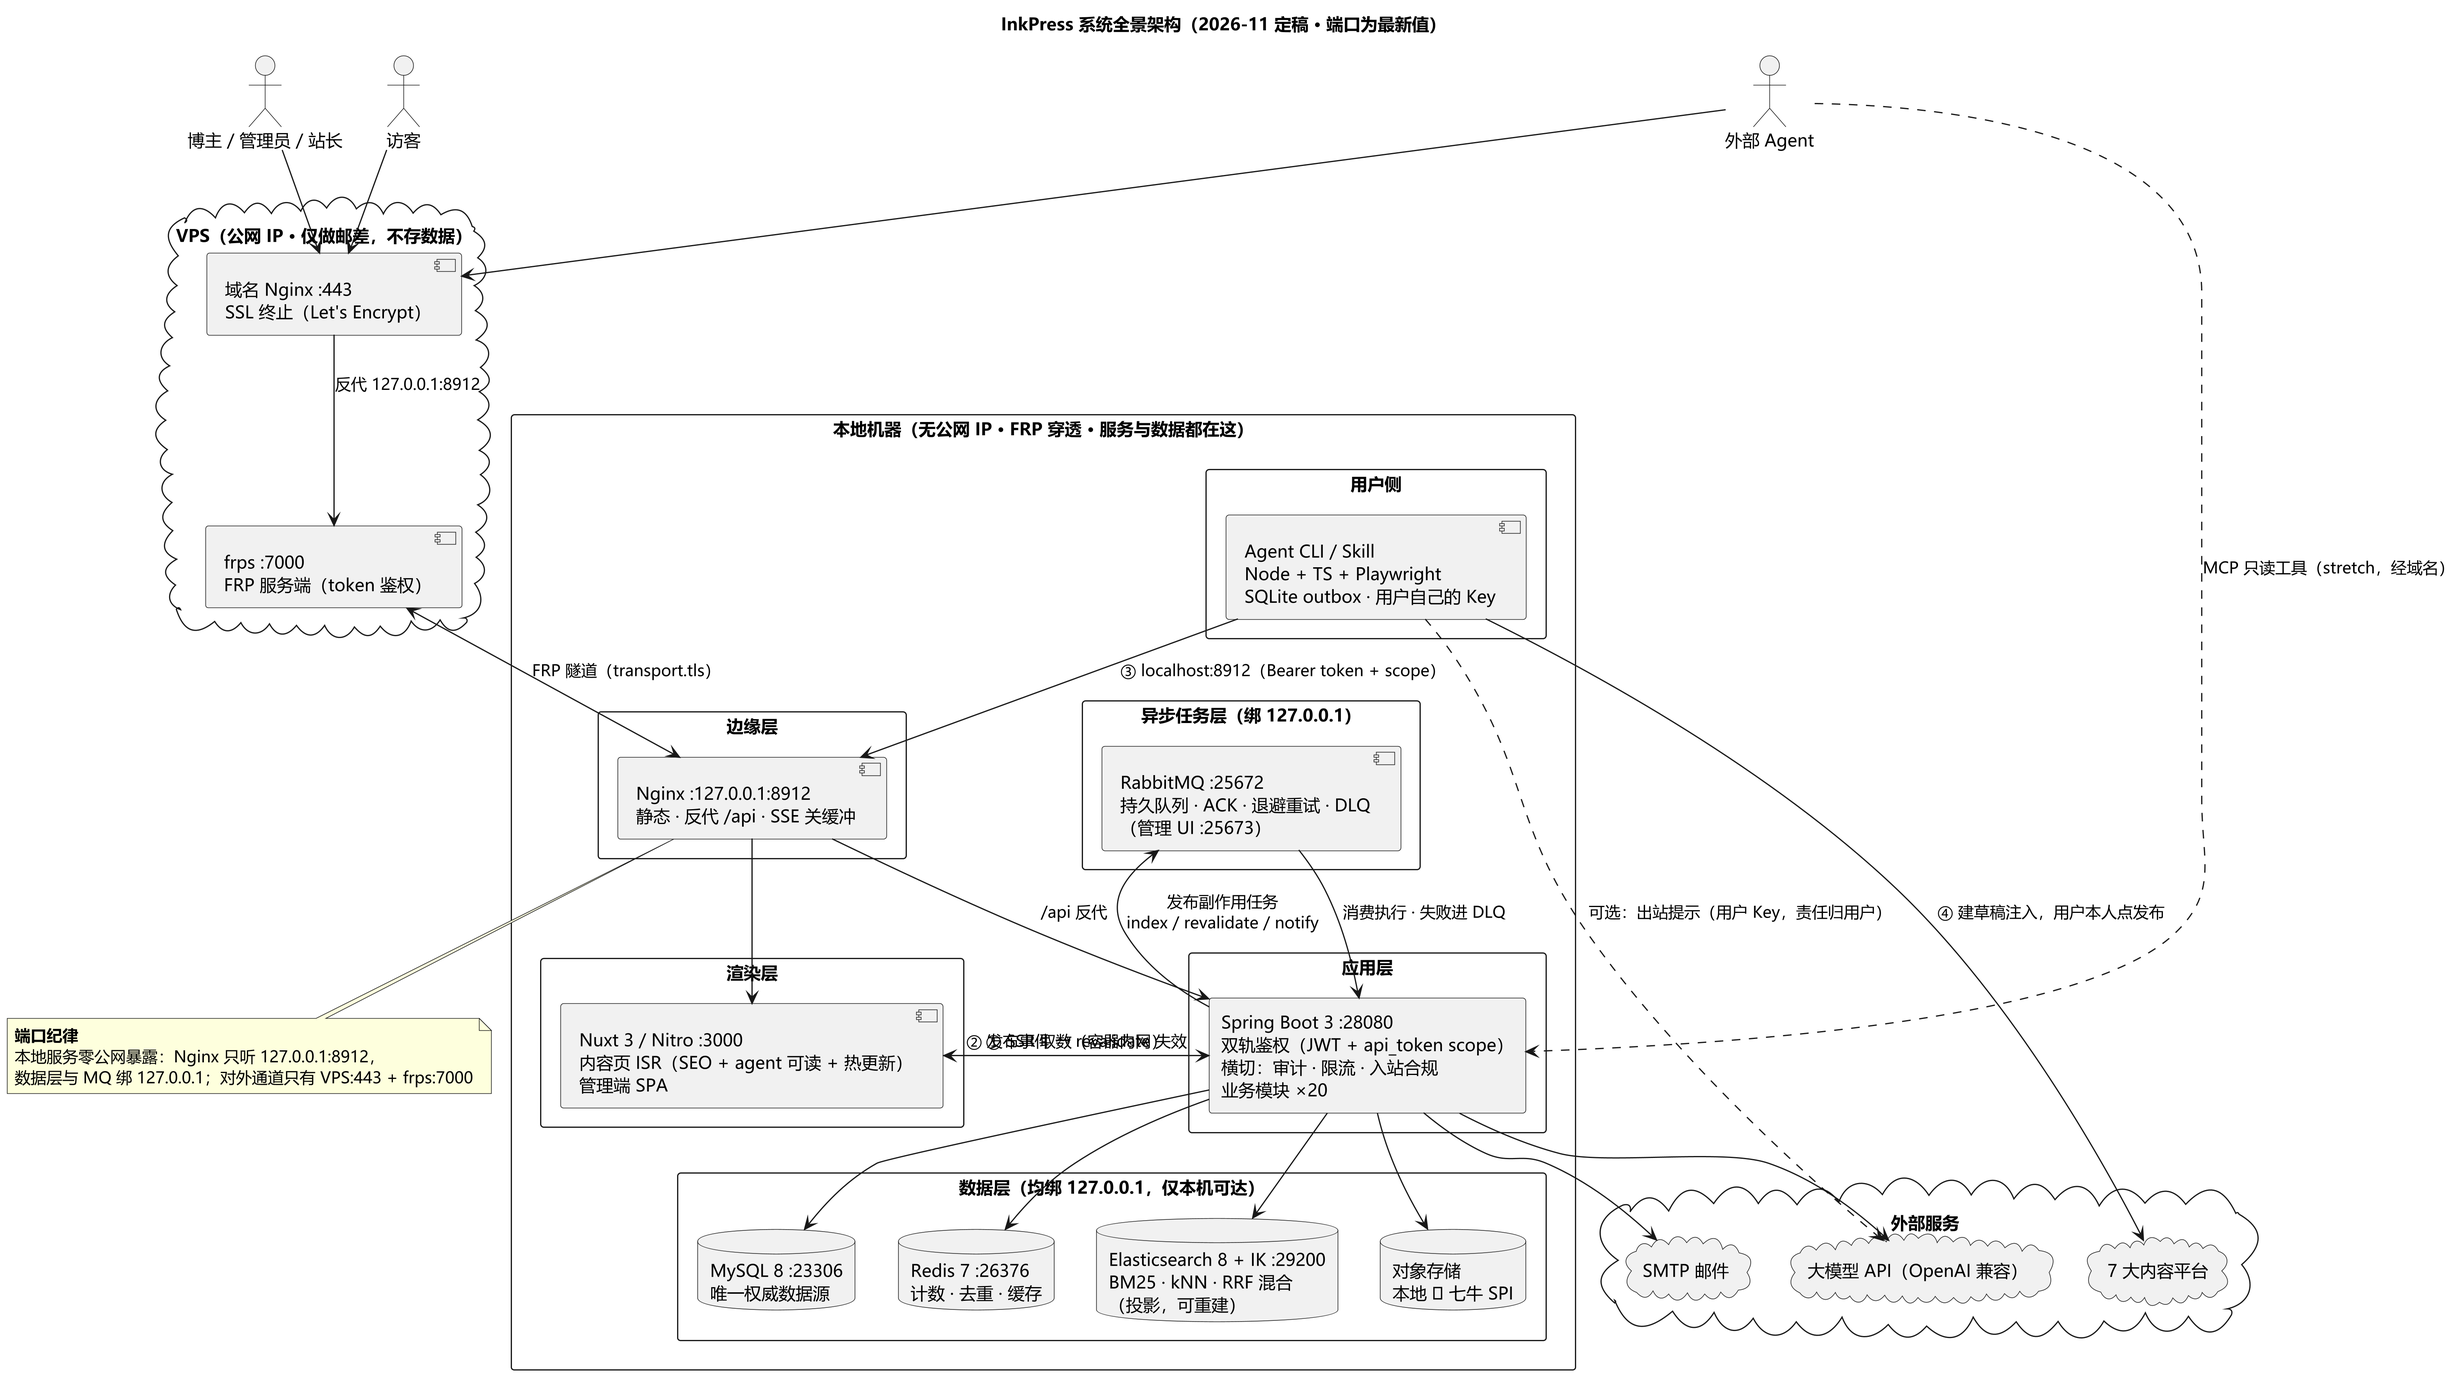
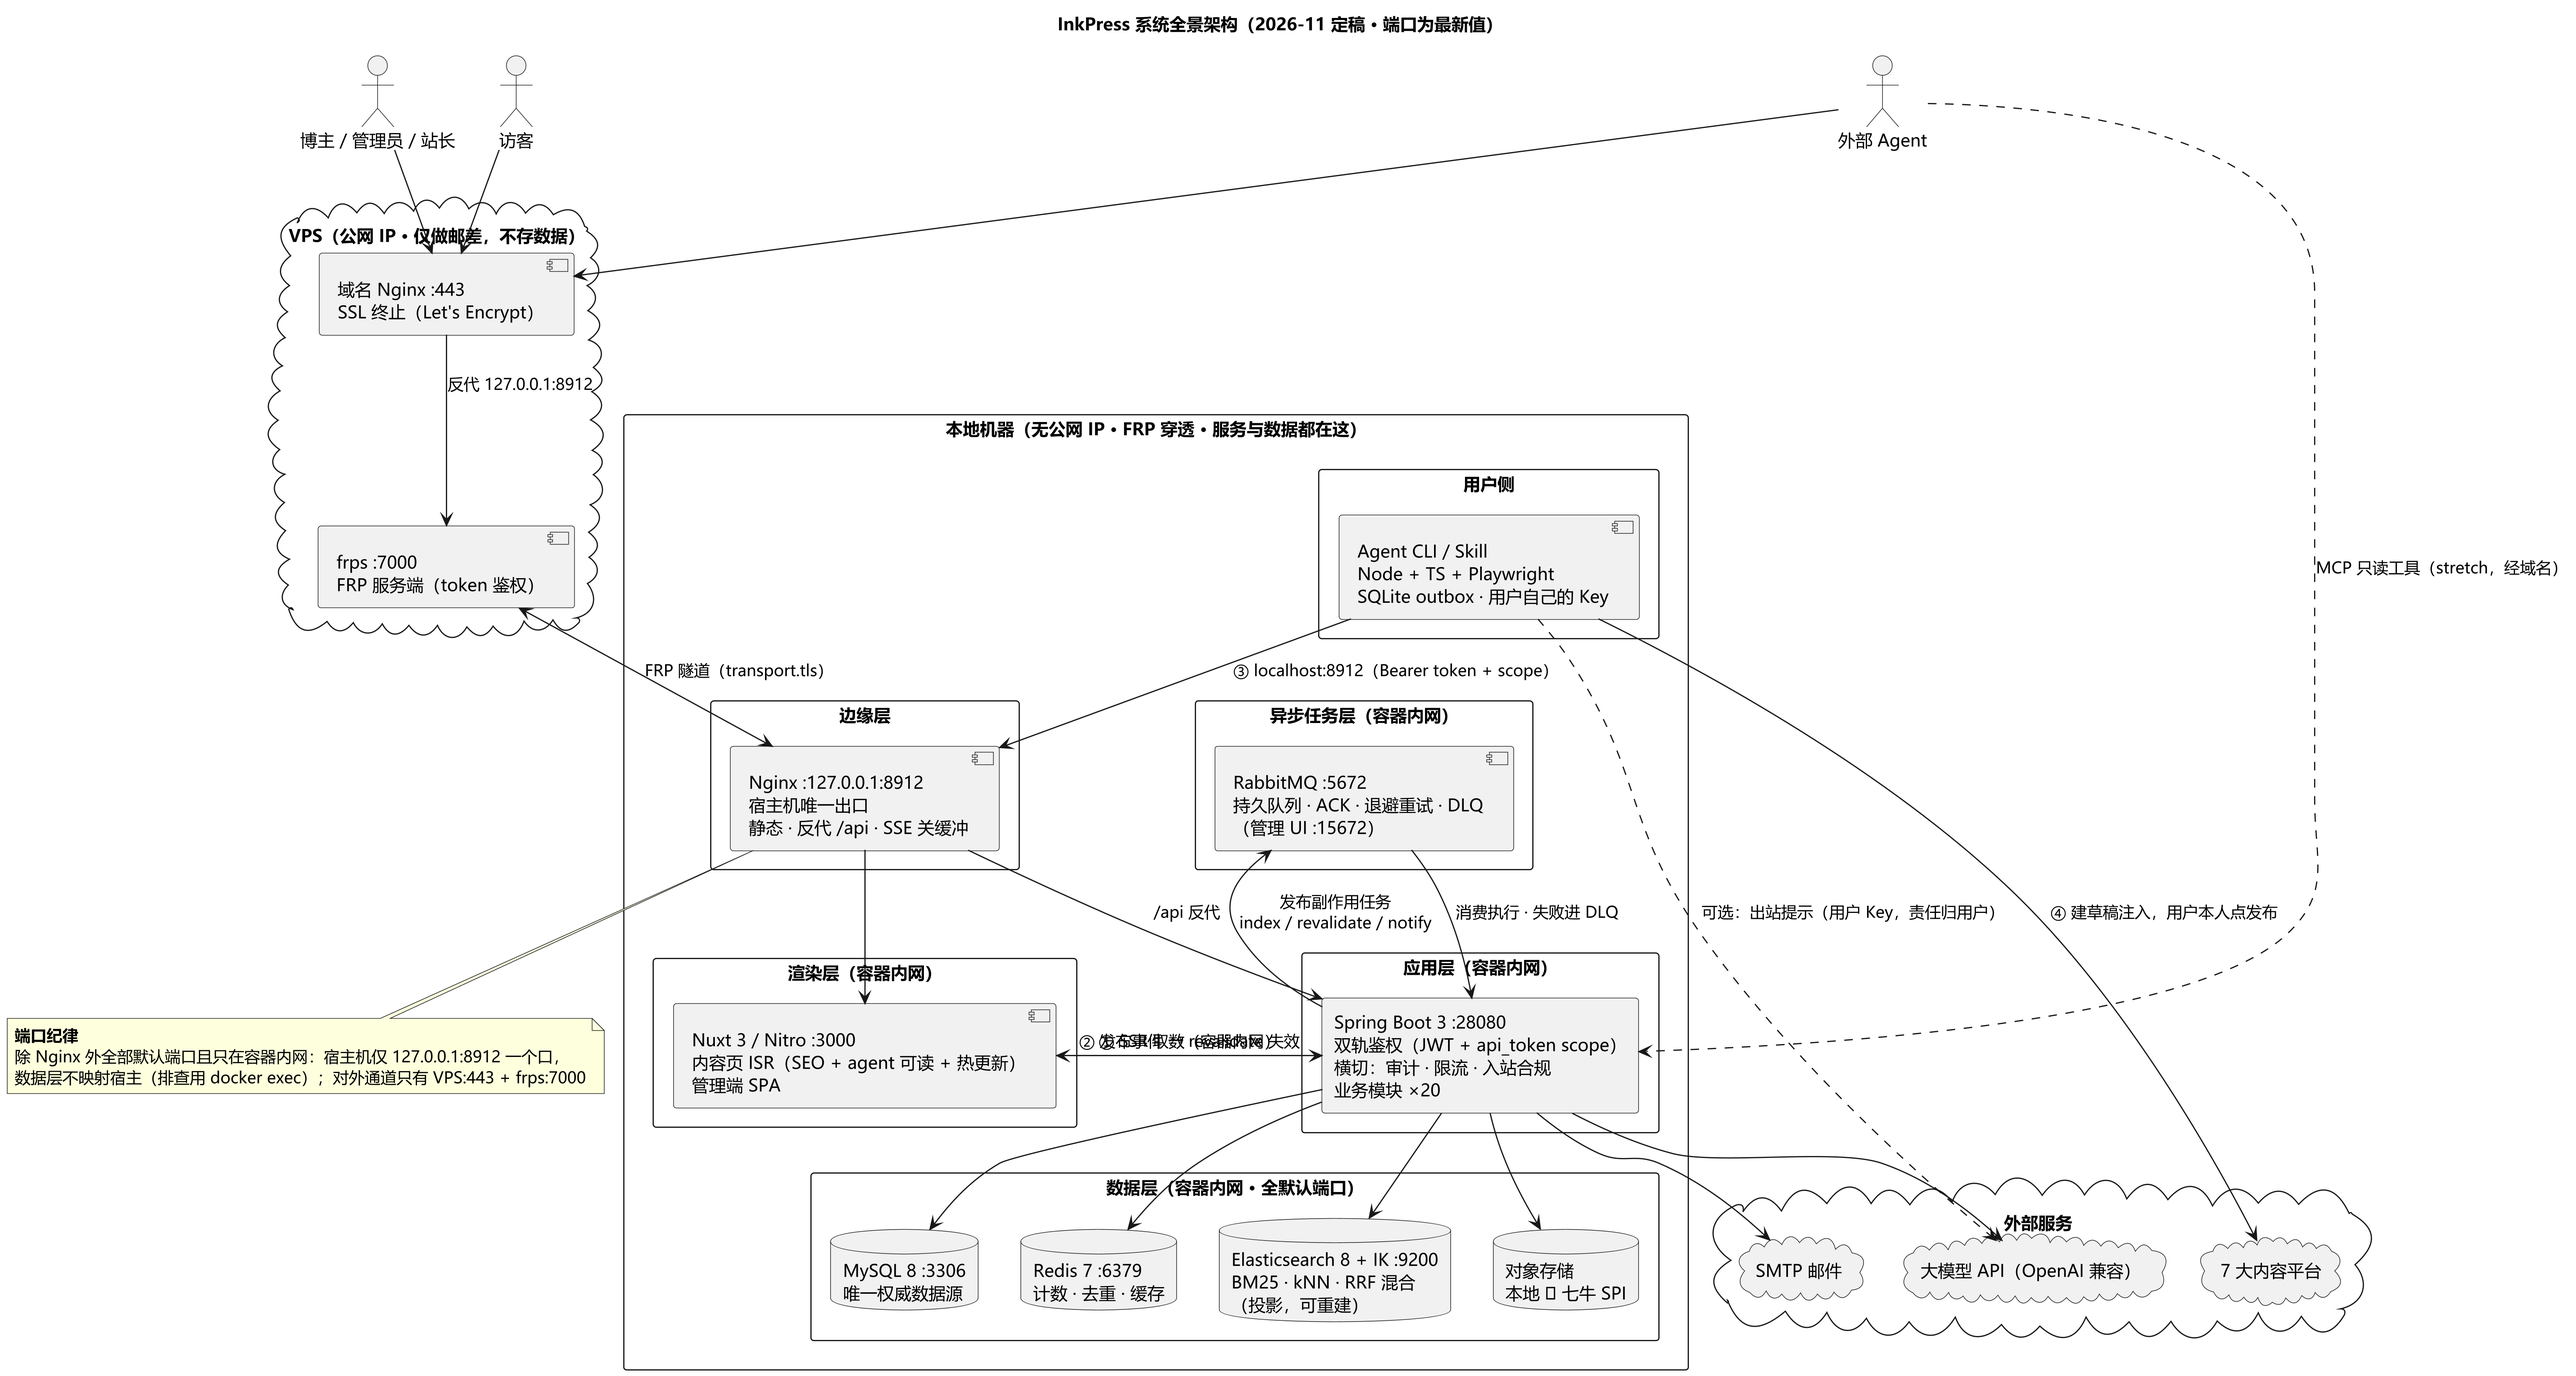
docs(prd): 端口纪律修订——除 Nginx 外全部默认端口且仅容器内网

diff --git a/docs/PRD.md b/docs/PRD.md
@@ -320,18 +320,27 @@ Body: { "routes": ["/article/123", "/", "/archive"], "reason": "ARTICLE_PUBLISHE
 
 ### 8.1 容器与端口
 
-| 服务 | 容器内端口 | 宿主机绑定 | 可达范围 |
+**端口纪律（2026-11-07 修订）：除 Nginx 外，所有服务一律使用默认端口，且只在容器内网可达——宿主机不映射任何数据层/应用层端口。**
+
+| 服务 | 容器内端口（默认） | 宿主机绑定 | 可达范围 |
 |---|---|---|---|
-| Nginx（本地） | 80 | **127.0.0.1:8912** | 只听本机——对外通道是 FRP |
+| Nginx（本地） | 80 | **127.0.0.1:8912** | 宿主机唯一出口——frpc 与 CLI 从本机连它 |
 | frpc | — | 出站连接 | 主动连 VPS:7000，穿透 NAT |
-| MySQL | 3306 | 127.0.0.1:23306 | 仅本机工具 |
-| Redis | 6379 | 127.0.0.1:26376 | 仅本机 |
-| Elasticsearch | 9200 | 127.0.0.1:29200 | 仅本机（调试） |
-| RabbitMQ | 5672 / 15672 | 127.0.0.1:25672 / 127.0.0.1:25673 | 仅本机（AMQP / 管理 UI） |
+| Nuxt / Nitro | 3000 | 不映射 | 仅 compose 内网 |
+| Spring Boot | 28080 | 不映射 | 仅 compose 内网 |
+| MySQL | 3306 | 不映射 | 仅 compose 内网 |
+| Redis | 6379 | 不映射 | 仅 compose 内网 |
+| Elasticsearch | 9200 | 不映射 | 仅 compose 内网 |
+| RabbitMQ | 5672 / 15672 | 不映射 | 仅 compose 内网 |
 | VPS Nginx | 80/443 | 0.0.0.0:80/443 | **真正的公网入口** |
 | frps | 7000 | 0.0.0.0:7000 | 收 frpc 连接 |
 
-Nuxt（容器内 3000）与 Spring Boot（容器内 28080）**不映射宿主机端口**——生产藏 Nginx 后，开发期宿主机直跑（25173/28080）。生产共 **7 个容器**：nginx / nuxt / server / mysql / redis / elasticsearch / rabbitmq。
+**这套纪律解决的问题**：
+1. **端口冲突为零**——宿主机上只有 8912 一个口属于本项目；campus-errand 等项目各自占用的 3306/6379 等与本项目互不干扰（Docker 容器内网端口互相隔离，同端口不同容器网络各自生效）
+2. **攻击面最小**——数据层与管理 UI 不监听宿主机，外网扫不到；排查用 `docker exec`（`mysql -uroot -p` / `redis-cli` / `curl localhost:9200` 进容器内执行），这是运维标准做法
+3. **开发期同构**——开发也跑 `docker compose up`（卷挂载实现 HMR 与热重启），不使用宿主端口映射，开发环境与生产环境结构一致
+
+生产共 **7 个容器**：nginx / nuxt / server / mysql / redis / elasticsearch / rabbitmq。
 
 ### 8.2 FRP 隧道
 
